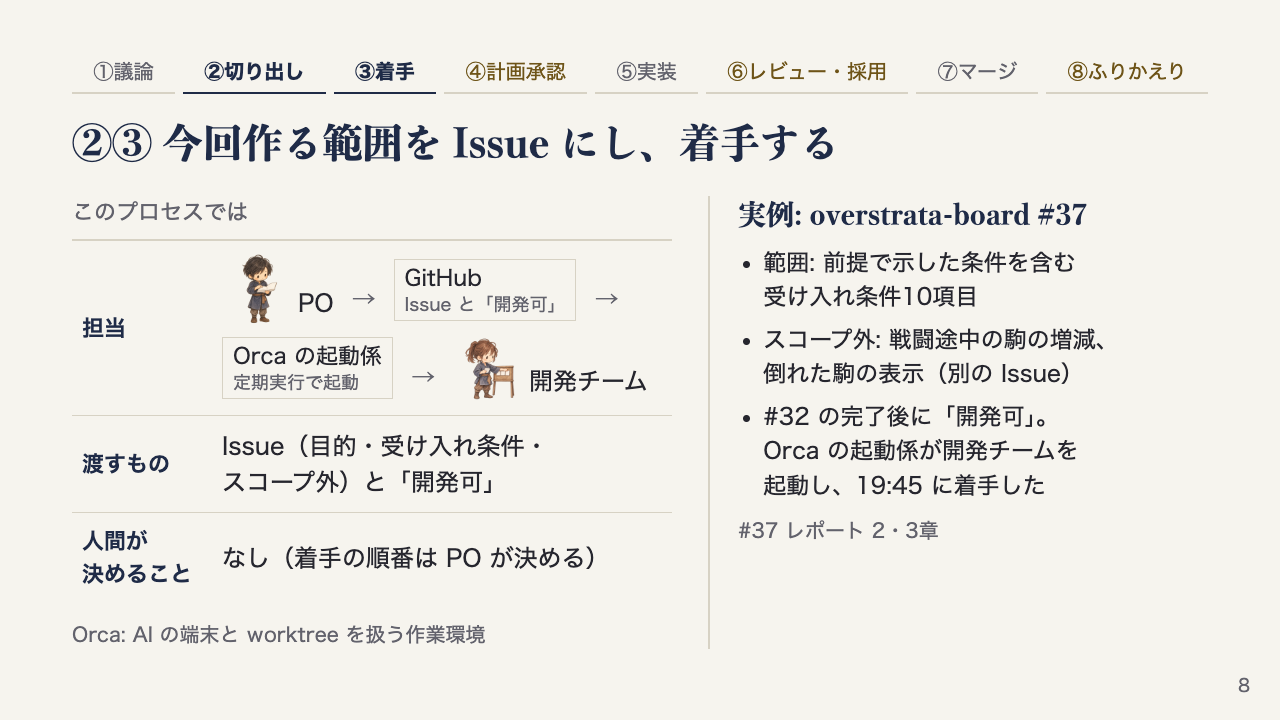
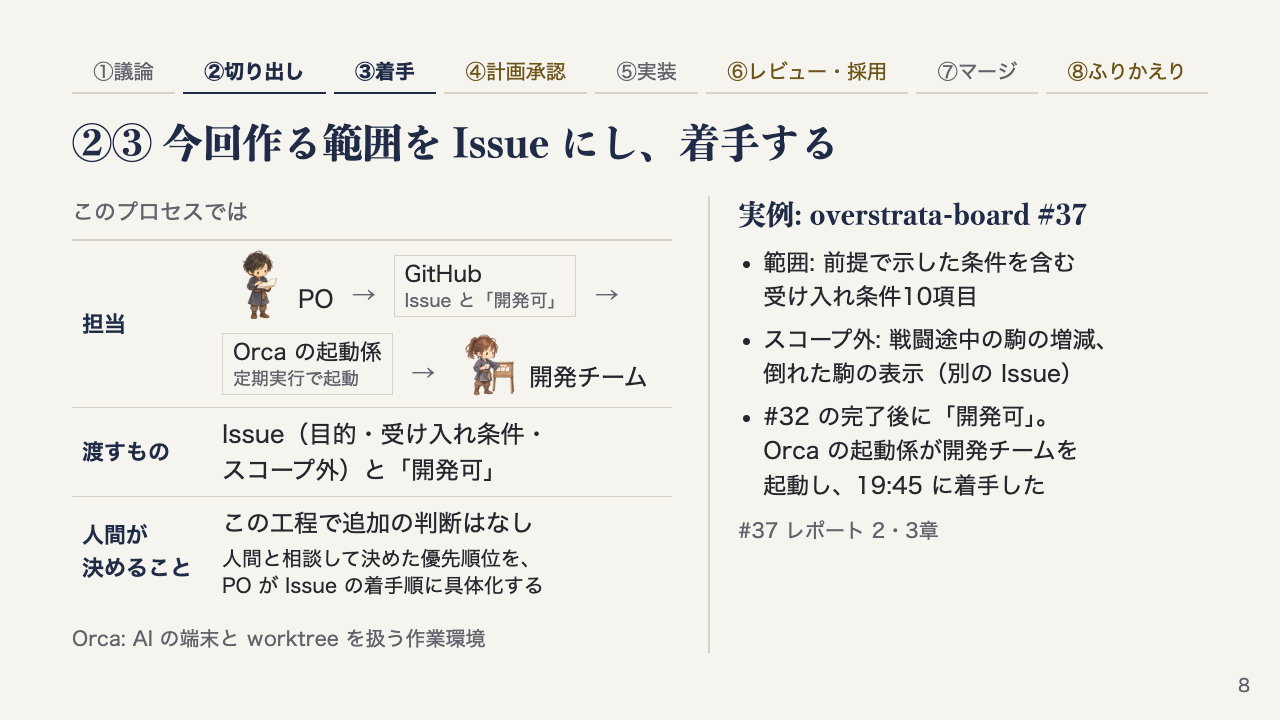
8枚目で優先順位と着手順の関係を補う
PR #25 の受け入れ確認で人間が「補足して。」と回答した内容を反映する。
「人間が決めること」を「この工程で追加の判断はなし」とし、
人間と相談して決めた優先順位を PO が Issue の着手順に具体化する関係を
本文とノートに足した。ノートの出典は元テンプレート固定版と、
この発表で合意した人間の関与を分けて書いた。

diff --git a/themes/paper.css b/themes/paper.css
@@ -378,6 +378,10 @@ table.duty tr.decide td {
   border-bottom: 2px solid var(--gold-rule);
 }
 table.duty tr.decide td { font-size: 26px; }
+/* 表の行を詰め、セルに20pxの補足行を置く（Issue #24 の PR #25 で8枚目の「人間が決めること」に使用） */
+table.duty.tight th,
+table.duty.tight td { padding-top: 8px; padding-bottom: 8px; }
+table.duty .sub { display: block; margin-top: 4px; font-size: 20px; line-height: 1.35; }
 
 /* 担当の行: 役割の人物（小）と役割名を並べる */
 .actors { display: flex; flex-wrap: wrap; align-items: flex-end; gap: 6px 18px; }

diff --git a/docs/design.md b/docs/design.md
@@ -106,13 +106,14 @@ paginate: true
 次章「Issue 1本の流れ」の工程の6枚（7〜12枚目。Issue #24 の前は9〜14枚目）でそろえる型。Issue #9 で追加した。
 
 - **上部の段階の行（8ステップ）**: `<ol class="steps">` に `<li>` を8つ（①議論〜⑧ふりかえり）。そのページの段に `now` を付ける（藍の太字と藍の下線）。④⑥⑧は人間の判断なので常に `judge` を付け、金の文字で示す（人間が判断しないページでも金で出る）。`judge now` は金の太字と金の下線
-- **左「このプロセスでは」**: 元テンプレートの一般的な手順。`<table class="duty">` の3行（担当・渡すもの・人間が決めること）。人間の3つの判断（計画承認・採用判断・改善の採否）の行だけ `<tr class="decide">` にし、文字と上下の罫線を金にする。判断がないページは「なし」と通常の色で書く
+- **左「このプロセスでは」**: 元テンプレートの一般的な手順。`<table class="duty">` の3行（担当・渡すもの・人間が決めること）。人間の3つの判断（計画承認・採用判断・改善の採否）の行だけ `<tr class="decide">` にし、文字と上下の罫線を金にする。判断がないページは「なし」と通常の色で書く。8枚目は「この工程で追加の判断はなし」とし、導入の「人間と優先順位を検討」とつなぐため、同じセルに `<span class="sub">`（20px、行間1.35、改行して表示）で「人間と相談して決めた優先順位を、PO が Issue の着手順に具体化する」を2行で置く（Issue #24 の PR #25 の受け入れ確認後に追加）
 - **右「実例: …」**: 別のプロジェクト（overstrata-board #37）の実例。左の罫線で一般の説明と分け、見出しに「実例」と書く。版や記録の節を `.meta` に書く
 - **担当の人物**: `<div class="actors">` の中に `<div class="actor">`（`<img class="actor-figure">` 72×72px と `<span class="actor-name">`）。開発者は `actor-figure` を2つ続ける。人間（レナ・ヨナ）は `<img class="people-small">`（120×80px、3:2）。金色を役割の人物の行に使わないため、人間の挿絵は担当の行か判断の行（`decide`）に置き、役割の人物は判断の行に置かない
 - **人物にしない仕組み**: 3つの役割に含めない仕組み（GitHub・Orca の起動係）は、担当の行に `<div class="actor-box">` の文字の枠で置く（1行目に名前、`<span>` に短い補足）。人物の絵やロゴは使わない（8枚目: PO → GitHub（Issue と「開発可」）→ Orca の起動係（定期実行で起動）→ 開発チーム。Issue #17 で追加）
 - **用語の短い説明**: 導入で説明しない用語を実例で初めて使うときは、短い説明を添える（Issue #24 で追加）。Issue は5枚目の左のラベル、Spec は7枚目の「渡すもの」、Orca は8枚目の左の表の下に `<p class="term">`（20px、補足の色）で1行置く
 - **比較画像**: `<div class="shots">` に `<div class="shot">`（`<img>` と説明 `<p>`、版 `<p class="ver">`）。画像の中の文字は読ませず、違いを説明文で書く
 - **スマホ幅の画面**: 縦長の画面の切り抜きは `<div class="shots phone">` にする（16:9 の枠に押し込まず、縦横比のまま高さ 270px までで収める）。本文の下に小さく置くときは `shots phone short`（高さ 200px まで、説明を画像の右に並べる。説明と版は `<div>` で包む。5枚目）。比較画像を大きく見せるページだけ、右の列を `<div class="example wide">`（660px）にする。案ごとに「触る前 → 選んだ直後」を並べるときは `shots phone pair` にし、`.shot` の中に説明（`<div>` に案名 `<p class="name">`・PR 番号 `<p class="ver">`（版はノート）・違いの説明 `<p>`）、前の画像、`<span class="arrow">→</span>`、後の画像の順に書く（1案が1行。画像の高さは 165px にそろえる。10枚目: 1280×720 で右の列は幅690px、画像は駒の近く案 190×165px・操作パネル案 222×165px、左の表は幅410px、右の列の下端 590px）。Issue #17 で追加
+- **行を詰めた表**: 3行の表に補足行を足して高さが足りないときは `<table class="duty tight">` で上下の余白を 12px から 8px にする（8枚目。本文の下端の上限 664px に対し、headless Chrome で測ったページ内の下端は 720px 基準で 653px。Orca の1行の上端 623px、表の下端 607px。Issue #24 の PR #25 の修正後）
 - **往復の表**: 1ページに6行の表が要るときは `<table class="duty loop">`。高さに収めるため 22px・上下 9px の余白にしている（11枚目。本文の下端の上限 664px に対し、Orca のブラウザで測ったページ内の下端は 720px 基準で 636px。Issue #17 の前提追加後）
 
 上部の段階の行と見出しで約 190px を使うので、表と実例の列に使える高さは約 470px（Issue #17 の前提追加後、現在の7〜12枚目の下端の実測は 555〜650px。下端が最も下にあるのは10枚目）。項目を足したら手元の画像と CI の PDF で確かめる。
